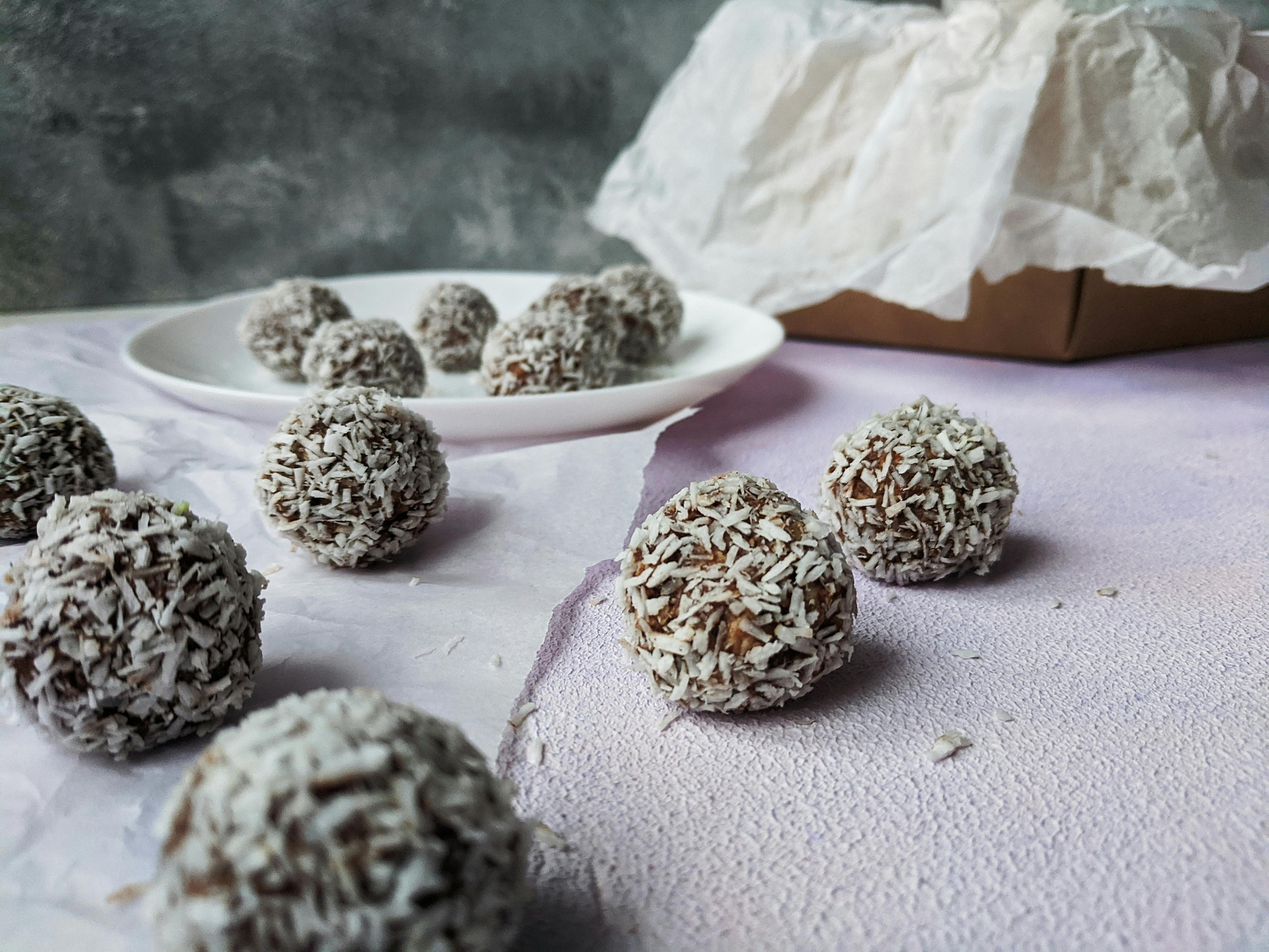
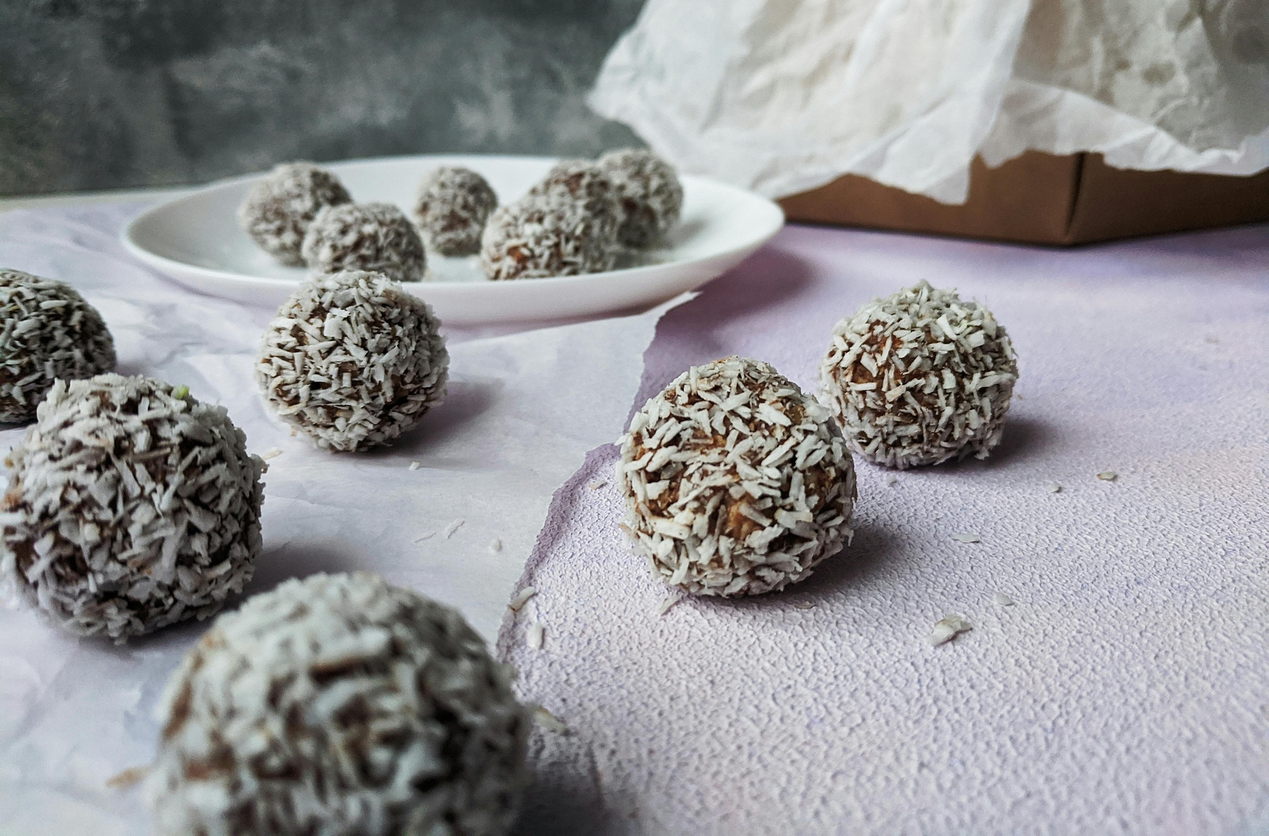
Added content to the menu and cropped menu images

diff --git a/menu.html b/menu.html
@@ -81,14 +81,14 @@
         <img
           class="chocolate-cake-background"
           src="assets/pexels-menu.png"
-          alt="Blurred tray with pastries"
+          alt="Blurred tray with pastries."
         />
         <h1 class="hero-text">MENU</h1>
       </div>
       <img
         class="allergy-legend"
         src="assets/allergylegendsmall.svg"
-        alt="Allergy Legend"
+        alt="Allergy Legend."
       />
       <section class="menu-category">
         <h2 class="menu-category-text">Pastries</h2>
@@ -96,15 +96,103 @@
           <article class="menu-item">
             <img
               class="menu-item-image"
-              src="assets/pexels-shameel-mukkath-3421394-5112529.jpg"
-              alt="REMEBER TO PUT ALT TEXT HERE!"
+              src="assets/menu-items/pastries/semla.jpg"
+              alt="Two semlas on a table."
             />
             <h3 class="menu-item-title">Semla</h3>
+            <p class="menu-item-paragraph">A traditional Swedish sweet roll.</p>
+            <div class="allergen-symbols">
+              <img
+                class="allergren-symbol"
+                src="assets/nuts.svg"
+                alt="Contains Nut Allergen."
+              />
+            </div>
+          </article>
+          <article class="menu-item">
+            <img
+              class="menu-item-image"
+              src="assets/menu-items/pastries/kanelbullar.jpg"
+              alt="Three cinnamon rolls next to each other."
+            />
+            <h3 class="menu-item-title">Kanelbulle</h3>
             <p class="menu-item-paragraph">
-              A traditional sweet roll made in various forms.
+              A cinnamon sweet roll with powdered sugar.
+            </p>
+            <div class="allergen-symbols"></div>
+          </article>
+          <article class="menu-item">
+            <img
+              class="menu-item-image"
+              src="assets/menu-items/pastries/wienerbröd.jpg"
+              alt="Wienerbröd on a plate."
+            />
+            <h3 class="menu-item-title">Wienerbröd</h3>
+            <p class="menu-item-paragraph">A delicious yeast dough dessert.</p>
+            <div class="allergen-symbols"></div>
+          </article>
+          <article class="menu-item">
+            <img
+              class="menu-item-image"
+              src="assets/menu-items/pastries/brownies.jpg"
+              alt="Three brownies on a plate."
+            />
+            <h3 class="menu-item-title">Brownie</h3>
+            <p class="menu-item-paragraph">A chocolate baked dessert bar.</p>
+            <div class="allergen-symbols"></div>
+          </article>
+          <article class="menu-item">
+            <img
+              class="menu-item-image"
+              src="assets/menu-items/pastries/blueberrymuffin.jpg"
+              alt="Two blueberry muffins on a sheet."
+            />
+            <h3 class="menu-item-title">Blåbärsmuffin</h3>
+            <p class="menu-item-paragraph">
+              A small, cup-shaped sweetened quickbread with blueberries.
+            </p>
+            <div class="allergen-symbols"></div>
+          </article>
+          <article class="menu-item">
+            <img
+              class="menu-item-image"
+              src="assets/menu-items/pastries/chocolatemuffin.jpg"
+              alt="Four chocolate muffins on a baking tray."
+            />
+            <h3 class="menu-item-title">Chokladmuffin</h3>
+            <p class="menu-item-paragraph">
+              A small, cup-shaped sweetened quickbread with chocolate.
+            </p>
+            <div class="allergen-symbols"></div>
+          </article>
+          <article class="menu-item">
+            <img
+              class="menu-item-image"
+              src="assets/menu-items/pastries/chokladbollar.jpg"
+              alt="A few chocolate balls out on a table."
+            />
+            <h3 class="menu-item-title">Chokladboll</h3>
+            <p class="menu-item-paragraph">
+              An unbaked oatmeal ball with chocolate and covered in coconut.
+            </p>
+            <div class="allergen-symbols"></div>
+          </article>
+          <article class="menu-item">
+            <img
+              class="menu-item-image"
+              src="assets/menu-items/pastries/oatmealcookies.jpg"
+              alt="A few oatmeal cookies on a plate."
+            />
+            <h3 class="menu-item-title">Havregrynskakor</h3>
+            <p class="menu-item-paragraph">
+              A cookie made from oatmeal, almonds and raisins.
             </p>
             <div class="allergen-symbols">
-              <img class="allergren-symbol" src="assets/svflower.svg" alt="" />
+              <img
+                class="allergren-symbol"
+                src="assets/nuts.svg"
+                alt="Containts Nut Allergen."
+              />
             </div>
           </article>
         </div>
@@ -115,17 +203,58 @@
           <article class="menu-item">
             <img
               class="menu-item-image"
-              src="assets/pexels-shameel-mukkath-3421394-5112529.jpg"
-              alt="REMEBER TO PUT ALT TEXT HERE!"
+              src="assets/menu-items/cake/kladdkaka.jpg"
+              alt="A piece of mud cake on a plate with whipped cream and mixed berries."
             />
             <h3 class="menu-item-title">Kladdkaka</h3>
             <p class="menu-item-paragraph">
               A dense, compact cake, features a crisp exterior and soft, gooey
               interior.
             </p>
-            <div class="allergen-symbol-grid">
-              <img class="allergren-symbol" src="assets/svflower.svg" alt="" />
+            <div class="allergen-symbol-grid"></div>
+          </article>
+          <article class="menu-item">
+            <img
+              class="menu-item-image"
+              src="assets/menu-items/cake/ostkaka.jpg"
+              alt="A piece of cheesecake on a plate."
+            />
+            <h3 class="menu-item-title">Ostkaka</h3>
+            <p class="menu-item-paragraph">
+              Sweet, crustless cake enjoyed with jam.
+            </p>
+            <div class="allergen-symbols"></div>
+          </article>
+          <article class="menu-item">
+            <img
+              class="menu-item-image"
+              src="assets/menu-items/cake/princesstårta.jpg"
+              alt="A piece of princess cake, with exposed green and white layers."
+            />
+            <h3 class="menu-item-title">Princesstårta</h3>
+            <p class="menu-item-paragraph">
+              Layer cake consisting of alternating layers of airy sponge cake
+              and a layer of whipped cream.
+            </p>
+            <div class="allergen-symbols">
+              <img
+                class="allergren-symbol"
+                src="assets/nuts.svg"
+                alt="Contains nut allergen."
+              />
             </div>
+          </article>
+          <article class="menu-item">
+            <img
+              class="menu-item-image"
+              src="assets/menu-items/cake/redvelvet.jpg"
+              alt="A piece of red velvet cake on a plate."
+            />
+            <h3 class="menu-item-title">Red Velvet</h3>
+            <p class="menu-item-paragraph">
+              A red-colored layer cake with icing.
+            </p>
+            <div class="allergen-symbols"></div>
           </article>
         </div>
       </section>
@@ -135,17 +264,56 @@
           <article class="menu-item">
             <img
               class="menu-item-image"
-              src="assets/pexels-shameel-mukkath-3421394-5112529.jpg"
-              alt="REMEBER TO PUT ALT TEXT HERE!"
+              src="assets/menu-items/bread/baguette.jpg"
+              alt="A basket with two long, crispy baguettes in it."
             />
             <h3 class="menu-item-title">Baguette</h3>
             <p class="menu-item-paragraph">
-              dolor sit amet, consectetur adipiscing elit, sed do eiusmod tempor
-              incididunt ut labore et dolore magna aliqua.
+              A long, thin type of bread from France.
+            </p>
+            <div class="allergen-symbols"></div>
+          </article>
+          <article class="menu-item">
+            <img
+              class="menu-item-image"
+              src="assets/menu-items/bread/sourdough.jpg"
+              alt="Slices of traditional sourdough bread on a cutting board."
+            />
+            <h3 class="menu-item-title">Surdegsbröd</h3>
+            <p class="menu-item-paragraph">
+              Bread made from sour fermented dough.
+            </p>
+            <div class="allergen-symbols"></div>
+          </article>
+          <article class="menu-item">
+            <img
+              class="menu-item-image"
+              src="assets/menu-items/bread/poppyseedbread.jpg"
+              alt="A whole loaf of bread with poppy seeds on top on a cutting board."
+            />
+            <h3 class="menu-item-title">Vallmobröd</h3>
+            <p class="menu-item-paragraph">
+              A bread made with poppy seeds in the dough and sprinkled on top.
             </p>
             <div class="allergen-symbols">
-              <img class="allergren-symbol" src="assets/svflower.svg" alt="" />
+              <img
+                class="allergren-symbol"
+                src="assets/sesame.svg"
+                alt="Containts sesame allergen."
+              />
             </div>
+          </article>
+          <article class="menu-item">
+            <img
+              class="menu-item-image"
+              src="assets/menu-items/bread/ryebread.jpg"
+              alt="Thin pieces of rye bread, scattered on a red cloth with baking flour residue around them."
+            />
+            <h3 class="menu-item-title">Rågbröd</h3>
+            <p class="menu-item-paragraph">
+              A bread made with flour from rye grain.
+            </p>
+            <div class="allergen-symbols"></div>
           </article>
         </div>
       </section>
